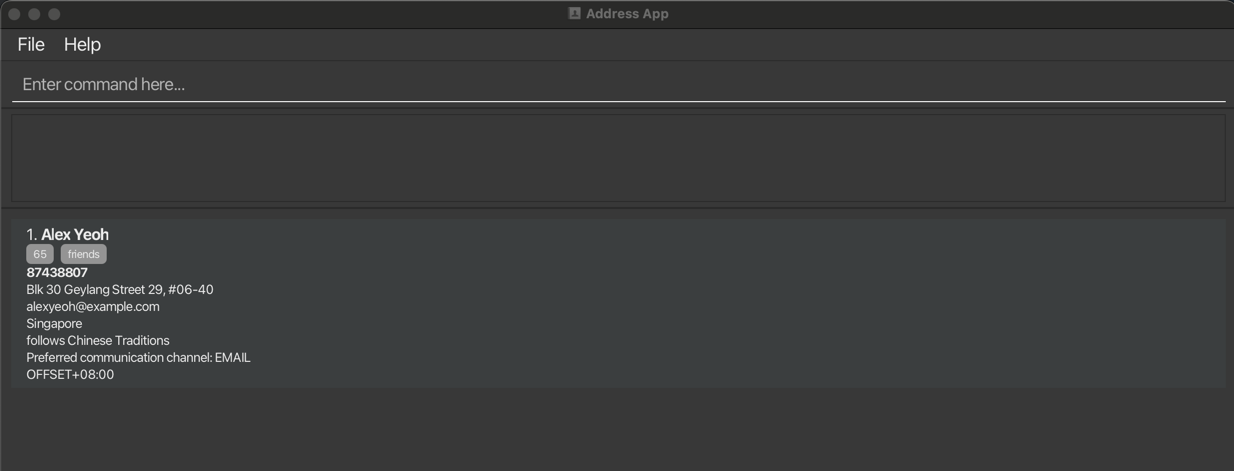
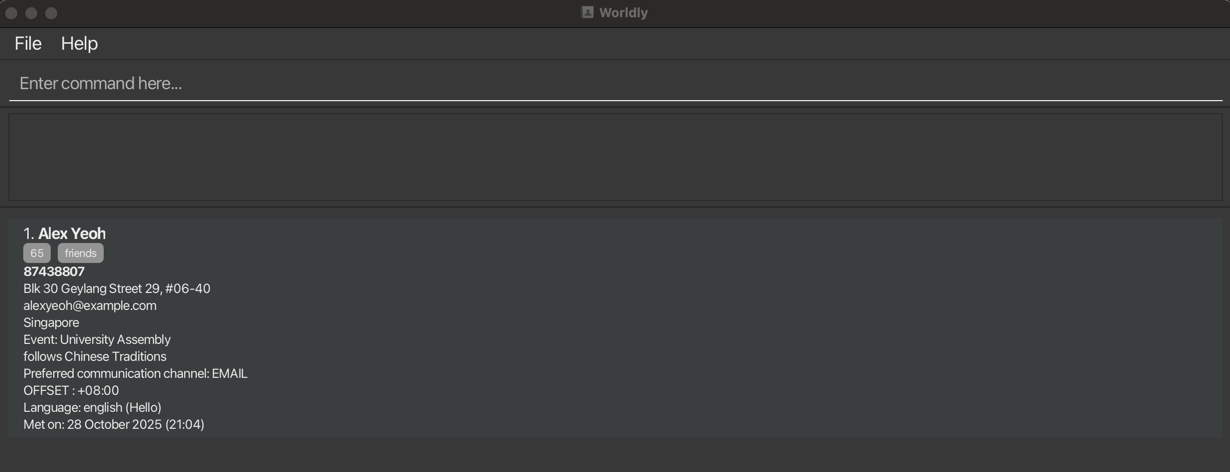
updated user guide

diff --git a/src/test/java/seedu/address/model/person/PreferredLanguageTest.java b/src/test/java/seedu/address/model/person/PreferredLanguageTest.java
@@ -25,19 +25,19 @@ public class PreferredLanguageTest {
     @Test
     public void validLanguages_variousCases() {
         String[] languages = {
-                "German", "Italian", "Portuguese", "Russian", "Arabic", "Hindi",
-                "Japanese", "Korean", "Vietnamese", "Thai", "Bengali", "Tamil",
-                "Urdu", "Malay", "Indonesian", "Filipino", "Swahili", "Zulu",
-                "Xhosa", "Afrikaans", "Hebrew", "Greek", "Latin", "Norwegian",
-                "Swedish", "Danish", "Finnish", "Polish", "Czech", "Slovak",
-                "Hungarian", "Romanian", "Serbian", "Croatian", "Bosnian",
-                "Bulgarian", "Ukrainian", "Macedonian", "Slovene", "Lithuanian",
-                "Latvian", "Estonian", "Icelandic", "Irish", "Welsh", "Scottish Gaelic",
-                "Basque", "Catalan", "Galician", "Esperanto", "Luxembourgish",
-                "Maltese", "Maori", "Samoan", "Tongan", "Fijian", "Haitian Creole",
-                "Hmong White", "Inuktitut", "Quechua", "Aymara", "Chamorro Guam",
-                "Chamorro North", "Armenian Eastern", "Armenian Western", "Abkhaz",
-                "Adyghe", "Afrikaans", "Akkadian", "Albanian GH", "Albanian TO", "Aleut"
+            "German", "Italian", "Portuguese", "Russian", "Arabic", "Hindi",
+            "Japanese", "Korean", "Vietnamese", "Thai", "Bengali", "Tamil",
+            "Urdu", "Malay", "Indonesian", "Filipino", "Swahili", "Zulu",
+            "Xhosa", "Afrikaans", "Hebrew", "Greek", "Latin", "Norwegian",
+            "Swedish", "Danish", "Finnish", "Polish", "Czech", "Slovak",
+            "Hungarian", "Romanian", "Serbian", "Croatian", "Bosnian",
+            "Bulgarian", "Ukrainian", "Macedonian", "Slovene", "Lithuanian",
+            "Latvian", "Estonian", "Icelandic", "Irish", "Welsh", "Scottish Gaelic",
+            "Basque", "Catalan", "Galician", "Esperanto", "Luxembourgish",
+            "Maltese", "Maori", "Samoan", "Tongan", "Fijian", "Haitian Creole",
+            "Hmong White", "Inuktitut", "Quechua", "Aymara", "Chamorro Guam",
+            "Chamorro North", "Armenian Eastern", "Armenian Western", "Abkhaz",
+            "Adyghe", "Afrikaans", "Akkadian", "Albanian GH", "Albanian TO", "Aleut"
         };
 
         for (String lang : languages) {
@@ -112,14 +112,14 @@ public class PreferredLanguageTest {
     @Test
     public void mixedLanguages_loopTest() {
         String[] validLanguages = {
-                "Zulu", "Xhosa", "Afrikaans", "Hebrew", "Greek", "Latin",
-                "Norwegian", "Swedish", "Danish", "Finnish", "Polish", "Czech",
-                "Slovak", "Hungarian", "Romanian", "Serbian", "Croatian", "Bosnian",
-                "Bulgarian", "Ukrainian", "Macedonian", "Slovene", "Lithuanian",
-                "Latvian", "Estonian", "Icelandic", "Irish", "Welsh", "Scottish Gaelic",
-                "Basque", "Catalan", "Galician", "Esperanto", "Luxembourgish",
-                "Maltese", "Maori", "Samoan", "Tongan", "Fijian", "Haitian Creole",
-                "Hmong White", "Inuktitut", "Quechua", "Aymara"
+            "Zulu", "Xhosa", "Afrikaans", "Hebrew", "Greek", "Latin",
+            "Norwegian", "Swedish", "Danish", "Finnish", "Polish", "Czech",
+            "Slovak", "Hungarian", "Romanian", "Serbian", "Croatian", "Bosnian",
+            "Bulgarian", "Ukrainian", "Macedonian", "Slovene", "Lithuanian",
+            "Latvian", "Estonian", "Icelandic", "Irish", "Welsh", "Scottish Gaelic",
+            "Basque", "Catalan", "Galician", "Esperanto", "Luxembourgish",
+            "Maltese", "Maori", "Samoan", "Tongan", "Fijian", "Haitian Creole",
+            "Hmong White", "Inuktitut", "Quechua", "Aymara"
         };
 
         for (String lang : validLanguages) {
@@ -132,13 +132,13 @@ public class PreferredLanguageTest {
     @Test
     public void invalidLanguages_loopTest() {
         String[] invalids = {
-                "English123", "French!", "@Spanish", "123", "Mandarin1", "Zulu#", "Xhosa$",
-                "Afr1kaans", "Hebrew123", "Greek!", "Latin@", "Norwegian1", "Swedish#",
-                "Danish$", "Finnish123", "Polish!", "Czech@", "Slovak1", "Hungarian#", "Romanian$",
-                "Serbian1", "Croatian@", "Bosnian!", "Bulgarian123", "Ukrainian#", "Macedonian$",
-                "Slovene1", "Lithuanian@", "Latvian!", "Estonian123", "Icelandic#", "Irish$",
-                "Welsh1", "Scottish Gaelic@", "Basque!", "Catalan123", "Galician#", "Esperanto$",
-                "Luxembourgish1", "Maltese@", "Maori!", "Samoan123", "Tongan#", "Fijian$"
+            "English123", "French!", "@Spanish", "123", "Mandarin1", "Zulu#", "Xhosa$",
+            "Afr1kaans", "Hebrew123", "Greek!", "Latin@", "Norwegian1", "Swedish#",
+            "Danish$", "Finnish123", "Polish!", "Czech@", "Slovak1", "Hungarian#", "Romanian$",
+            "Serbian1", "Croatian@", "Bosnian!", "Bulgarian123", "Ukrainian#", "Macedonian$",
+            "Slovene1", "Lithuanian@", "Latvian!", "Estonian123", "Icelandic#", "Irish$",
+            "Welsh1", "Scottish Gaelic@", "Basque!", "Catalan123", "Galician#", "Esperanto$",
+            "Luxembourgish1", "Maltese@", "Maori!", "Samoan123", "Tongan#", "Fijian$"
         };
 
         for (String lang : invalids) {

diff --git a/src/test/java/seedu/address/storage/JsonAdaptedPersonTest.java b/src/test/java/seedu/address/storage/JsonAdaptedPersonTest.java
@@ -14,7 +14,6 @@ import org.junit.jupiter.api.Test;
 import seedu.address.commons.exceptions.IllegalValueException;
 import seedu.address.model.person.Address;
 import seedu.address.model.person.Email;
-import seedu.address.model.person.Event;
 import seedu.address.model.person.Name;
 import seedu.address.model.person.Phone;
 
@@ -58,8 +57,9 @@ public class JsonAdaptedPersonTest {
 
     @Test
     public void toModelType_nullName_throwsIllegalValueException() {
-        JsonAdaptedPerson person = new JsonAdaptedPerson(null, VALID_PHONE, VALID_EMAIL, VALID_ADDRESS, VALID_COUNTRY,
-            VALID_EVENT, VALID_NOTE, VALID_OFFSET, VALID_TAGS, VALID_LANGUAGE, VALID_METON, ARCHIVAL_STATUS);
+        JsonAdaptedPerson person = new JsonAdaptedPerson(null, VALID_PHONE, VALID_EMAIL, VALID_ADDRESS,
+            VALID_COUNTRY, VALID_EVENT, VALID_NOTE, VALID_OFFSET, VALID_TAGS, VALID_LANGUAGE, VALID_METON,
+            ARCHIVAL_STATUS);
         String expectedMessage = String.format(MISSING_FIELD_MESSAGE_FORMAT, Name.class.getSimpleName());
         assertThrows(IllegalValueException.class, expectedMessage, person::toModelType);
     }
@@ -67,7 +67,8 @@ public class JsonAdaptedPersonTest {
     @Test
     public void toModelType_invalidPhone_throwsIllegalValueException() {
         JsonAdaptedPerson person = new JsonAdaptedPerson(VALID_NAME, INVALID_PHONE, VALID_EMAIL, VALID_ADDRESS,
-            VALID_EVENT, VALID_COUNTRY, VALID_NOTE, VALID_OFFSET, VALID_TAGS, VALID_LANGUAGE, VALID_METON, ARCHIVAL_STATUS);
+            VALID_EVENT, VALID_COUNTRY, VALID_NOTE, VALID_OFFSET, VALID_TAGS, VALID_LANGUAGE, VALID_METON,
+            ARCHIVAL_STATUS);
         String expectedMessage = Phone.MESSAGE_CONSTRAINTS;
         assertThrows(IllegalValueException.class, expectedMessage, person::toModelType);
     }
@@ -75,7 +76,8 @@ public class JsonAdaptedPersonTest {
     @Test
     public void toModelType_nullPhone_throwsIllegalValueException() {
         JsonAdaptedPerson person = new JsonAdaptedPerson(VALID_NAME, null, VALID_EMAIL, VALID_ADDRESS,
-            VALID_EVENT, VALID_COUNTRY, VALID_NOTE, VALID_OFFSET, VALID_TAGS, VALID_LANGUAGE, VALID_METON, ARCHIVAL_STATUS);
+            VALID_EVENT, VALID_COUNTRY, VALID_NOTE, VALID_OFFSET, VALID_TAGS, VALID_LANGUAGE, VALID_METON,
+            ARCHIVAL_STATUS);
         String expectedMessage = String.format(MISSING_FIELD_MESSAGE_FORMAT, Phone.class.getSimpleName());
         assertThrows(IllegalValueException.class, expectedMessage, person::toModelType);
     }
@@ -83,7 +85,8 @@ public class JsonAdaptedPersonTest {
     @Test
     public void toModelType_invalidEmail_throwsIllegalValueException() {
         JsonAdaptedPerson person = new JsonAdaptedPerson(VALID_NAME, VALID_PHONE, INVALID_EMAIL, VALID_ADDRESS,
-            VALID_COUNTRY, VALID_EVENT, VALID_NOTE, VALID_OFFSET, VALID_TAGS, VALID_LANGUAGE, VALID_METON, ARCHIVAL_STATUS);
+            VALID_COUNTRY, VALID_EVENT, VALID_NOTE, VALID_OFFSET, VALID_TAGS, VALID_LANGUAGE, VALID_METON,
+            ARCHIVAL_STATUS);
         String expectedMessage = Email.MESSAGE_CONSTRAINTS;
         assertThrows(IllegalValueException.class, expectedMessage, person::toModelType);
     }
@@ -100,7 +103,8 @@ public class JsonAdaptedPersonTest {
     @Test
     public void toModelType_invalidAddress_throwsIllegalValueException() {
         JsonAdaptedPerson person = new JsonAdaptedPerson(VALID_NAME, VALID_PHONE, VALID_EMAIL, INVALID_ADDRESS,
-            VALID_COUNTRY, VALID_EVENT, VALID_NOTE, VALID_OFFSET, VALID_TAGS, VALID_LANGUAGE, VALID_METON, ARCHIVAL_STATUS);
+            VALID_COUNTRY, VALID_EVENT, VALID_NOTE, VALID_OFFSET, VALID_TAGS, VALID_LANGUAGE, VALID_METON,
+            ARCHIVAL_STATUS);
         String expectedMessage = Address.MESSAGE_CONSTRAINTS;
         assertThrows(IllegalValueException.class, expectedMessage, person::toModelType);
     }
@@ -108,7 +112,8 @@ public class JsonAdaptedPersonTest {
     @Test
     public void toModelType_nullAddress_throwsIllegalValueException() {
         JsonAdaptedPerson person = new JsonAdaptedPerson(VALID_NAME, VALID_PHONE, VALID_EMAIL, null,
-            VALID_COUNTRY, VALID_EVENT, VALID_NOTE, VALID_OFFSET, VALID_TAGS, VALID_LANGUAGE, VALID_METON, ARCHIVAL_STATUS);
+            VALID_COUNTRY, VALID_EVENT, VALID_NOTE, VALID_OFFSET, VALID_TAGS, VALID_LANGUAGE, VALID_METON,
+            ARCHIVAL_STATUS);
         String expectedMessage = String.format(MISSING_FIELD_MESSAGE_FORMAT, Address.class.getSimpleName());
         assertThrows(IllegalValueException.class, expectedMessage, person::toModelType);
     }
@@ -118,7 +123,8 @@ public class JsonAdaptedPersonTest {
         List<JsonAdaptedTag> invalidTags = new ArrayList<>(VALID_TAGS);
         invalidTags.add(new JsonAdaptedTag(INVALID_TAG));
         JsonAdaptedPerson person = new JsonAdaptedPerson(VALID_NAME, VALID_PHONE, VALID_EMAIL, VALID_ADDRESS,
-            VALID_COUNTRY, VALID_EVENT, VALID_NOTE, VALID_OFFSET, invalidTags, VALID_LANGUAGE, VALID_METON, ARCHIVAL_STATUS);
+            VALID_COUNTRY, VALID_EVENT, VALID_NOTE, VALID_OFFSET, invalidTags, VALID_LANGUAGE, VALID_METON,
+            ARCHIVAL_STATUS);
         assertThrows(IllegalValueException.class, person::toModelType);
     }
 

diff --git a/src/test/java/seedu/address/logic/parser/AddEventCommandParserTest.java b/src/test/java/seedu/address/logic/parser/AddEventCommandParserTest.java
@@ -1,16 +1,16 @@
 package seedu.address.logic.parser;
 
 import static seedu.address.logic.Messages.MESSAGE_INVALID_COMMAND_FORMAT;
-import static seedu.address.logic.parser.CliSyntax.PREFIX_NAME;
 import static seedu.address.logic.parser.CliSyntax.PREFIX_EVENT;
+import static seedu.address.logic.parser.CliSyntax.PREFIX_NAME;
 import static seedu.address.logic.parser.CommandParserTestUtil.assertParseFailure;
 import static seedu.address.logic.parser.CommandParserTestUtil.assertParseSuccess;
 
 import org.junit.jupiter.api.Test;
 
 import seedu.address.logic.commands.AddEventCommand;
-import seedu.address.model.person.Name;
 import seedu.address.model.person.Event;
+import seedu.address.model.person.Name;
 
 public class AddEventCommandParserTest {
 
@@ -46,9 +46,11 @@ public class AddEventCommandParserTest {
         assertParseFailure(parser, AddEventCommand.COMMAND_WORD, expectedMessage);
 
         // no name
-        assertParseFailure(parser, AddEventCommand.COMMAND_WORD + " " + PREFIX_EVENT + VALID_EVENT, expectedMessage);
+        assertParseFailure(parser, AddEventCommand.COMMAND_WORD + " " + PREFIX_EVENT + VALID_EVENT,
+            expectedMessage);
 
         // no event
-        assertParseFailure(parser, AddEventCommand.COMMAND_WORD + " " + PREFIX_NAME + VALID_NAME, expectedMessage);
+        assertParseFailure(parser, AddEventCommand.COMMAND_WORD + " " + PREFIX_NAME + VALID_NAME,
+            expectedMessage);
     }
 }

diff --git a/src/main/java/seedu/address/model/util/GreetingMap.java b/src/main/java/seedu/address/model/util/GreetingMap.java
@@ -1,11 +1,25 @@
 package seedu.address.model.util;
 
-import com.fasterxml.jackson.databind.ObjectMapper;
 import java.io.InputStream;
 import java.util.Map;
 
-public class GreetingMap {
+import com.fasterxml.jackson.databind.ObjectMapper;
 
+/**
+ * A utility class that loads a mapping of language codes to greeting messages
+ * from the {@code greetings.json} resource file. The greetings are stored in a
+ * static map and can be retrieved using their language code.
+ *
+ * If a greeting for the requested language is not found, a default
+ * greeting {@code "Hello!"} is returned.</p>
+ */
+public class GreetingMap {
+    /**
+     * Returns the greeting message associated with the given language code.
+     *
+     * @param language The language code used to look up the greeting. It is case-insensitive.
+     * @return The greeting message for the given language, or {@code "Hello!"} if the language is not found.
+     */
     private static Map<String, String> greetings;
 
     static {

diff --git a/src/main/java/seedu/address/model/person/GreetingLibrary.java b/src/main/java/seedu/address/model/person/GreetingLibrary.java
@@ -1,12 +1,16 @@
 package seedu.address.model.person;
 
-import com.fasterxml.jackson.core.type.TypeReference;
-import com.fasterxml.jackson.databind.ObjectMapper;
-
 import java.io.IOException;
 import java.io.InputStream;
 import java.util.Map;
 
+import com.fasterxml.jackson.core.type.TypeReference;
+import com.fasterxml.jackson.databind.ObjectMapper;
+
+/**
+ * Provides localized greetings based on language.
+ * Loads greetings from /data/greetings.json at class initialization.
+ */
 public class GreetingLibrary {
     private static Map<String, String> greetings;
 
@@ -22,10 +26,10 @@ public class GreetingLibrary {
     }
 
     public static String getGreeting(String language) {
-        if (language == null) return "(No greeting available)";
+        if (language == null) {
+            return "(No greeting available)";
+        }
         String greeting = greetings.get(language.toLowerCase());
         return greeting != null ? greeting : "(No greeting available)";
     }
 }
-
-

diff --git a/src/main/java/seedu/address/model/util/SampleDataUtil.java b/src/main/java/seedu/address/model/util/SampleDataUtil.java
@@ -32,7 +32,7 @@ public class SampleDataUtil {
         return new Person[]{
             new Person(new Name("Alex Yeoh"), new Phone("87438807"), new Email("alexyeoh@example.com"),
                     new Address("Blk 30 Geylang Street 29, #06-40"), new Country("Singapore"),
-                    new Event("University assembly"), new Note("follows Chinese Traditions"),
+                    new Event("University Assembly"), new Note("follows Chinese Traditions"),
                     Person.CommunicationChannel.EMAIL, getTagSet("friends"), new Offset("+08:00"),
                     new PreferredLanguage("english"), new MetOn(LocalDateTime.now()), false)
         };

diff --git a/src/test/java/seedu/address/logic/commands/AddEventCommandTest.java b/src/test/java/seedu/address/logic/commands/AddEventCommandTest.java
@@ -13,8 +13,8 @@ import seedu.address.model.AddressBook;
 import seedu.address.model.Model;
 import seedu.address.model.ModelManager;
 import seedu.address.model.UserPrefs;
-import seedu.address.model.person.Name;
 import seedu.address.model.person.Event;
+import seedu.address.model.person.Name;
 import seedu.address.model.person.Person;
 import seedu.address.testutil.PersonBuilder;
 

diff --git a/src/main/java/seedu/address/model/person/PreferredLanguage.java b/src/main/java/seedu/address/model/person/PreferredLanguage.java
@@ -5,6 +5,10 @@ import static seedu.address.commons.util.AppUtil.checkArgument;
 
 import java.util.Locale;
 
+/**
+ * Represents a person's preferred language in the address book.
+ * Guarantees: immutable; value is always valid (non-null and matches validation constraints).
+ */
 public class PreferredLanguage {
 
     public static final String MESSAGE_CONSTRAINTS =

diff --git a/docs/UserGuide.md b/docs/UserGuide.md
@@ -77,13 +77,13 @@ Format: `help`
 
 Adds a person to the address book.
 
-Format: `add name:NAME phone:PHONE_NUMBER email:EMAIL address:ADDRESS channel:CHANNEL offset:OFFSET [country:COUNTRY] [note:NOTE] [tag:TAG] [lang: LANGUAGE]
+Format: `add name:NAME phone:PHONE_NUMBER email:EMAIL address:ADDRESS channel:CHANNEL offset:OFFSET [country:COUNTRY] [event:EVENT] [note:NOTE] [tag:TAG] [lang: LANGUAGE]
 ]…`
 
 * A tag with the person's country calling code is automatically added if it is included in the phone number.
 * The channel field **cannot be left blank**. You must specify one of the allowed channels: PHONE, EMAIL, SMS, WHATSAPP, or TELEGRAM. If the channel field is omitted, the app will display an error and refuse to add the contact.
 * The offset refers to offset from GMT and must be specified in +/-HH:MM. You may refer to the help window (with `help`) for a reference table of offset values.
-* The country and note fields can be left blank or omitted from the command entirely.
+* The country, event and note fields can be left blank or omitted from the command entirely.
 * A person can have any number of tags (including 0). Each tag must be added with `tag:`.
 * PreferredLanguage is optional. If omitted, the contact’s preferred language defaults to English.
 
@@ -145,6 +145,15 @@ Format: `delete INDEX`
 Examples:
 * `list` followed by `delete 2` deletes the 2nd person in the address book.
 * `find Betsy` followed by `delete 1` deletes the 1st person in the results of the `find` command.
+
+### Adding an event to existing persons: `addevent`
+
+Adds or updates an event for an existing contact.
+
+Format: `addevent name:NAME event:EVENT`
+
+Examples:
+* `addevent name:John Doe event:Met at NUS Career Fair 2024`
 
 ### Adding a note to existing persons: `addnote`
 
@@ -289,6 +298,7 @@ _Details coming soon ..._
 Action | Format, Examples
 --------|------------------
 **Add** | `add name:NAME phone:PHONE_NUMBER email:EMAIL address:ADDRESS channel:CHANNEL offset:OFFSET [country:COUNTRY] [note:NOTE] [lang:LANGUAGE] [tag:TAG]…` <br> e.g., `add name:John Doe phone:98765432 email:johnd@example.com address:John street, block 123, #01-01 channel:EMAIL offset:+08:00 country:Singapore note:does not drink alcohol tag:friends`
+**Add Event** | `addevent name:NAME event:EVENT` <br> e.g., `addevent name:John Doe event:Met at NUS Career Fair 2024`
 **Add Note** | `add name:NAME note:NOTE` <br> e.g., `addnote name:John Doe note:Cannot drink alcohol`
 **Clear** | `clear`
 **Delete** | `delete INDEX`<br> e.g., `delete 3`
